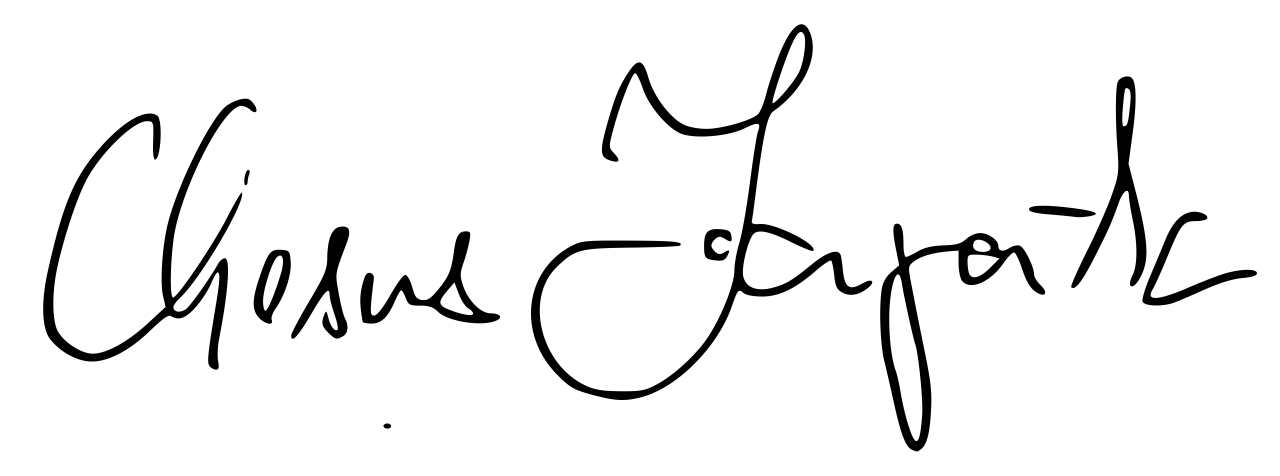
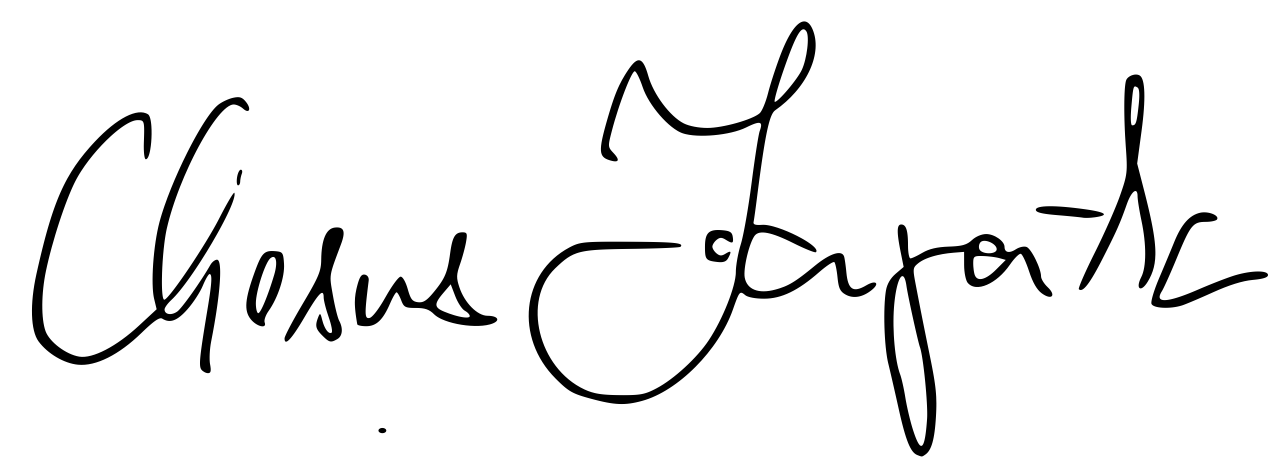
signatures

diff --git a/_includes/signature.html b/_includes/signature.html
@@ -1,4 +1,10 @@
-<div style="margin-top:2em;">
-  <img src="{{ '/assets/img/ChesusZapataSig.png' | relative_url }}" alt="Signature" height="160"><br>
-  <span>Aprobado por el Presidente Chesus Zapata y refrendado por el Canciller Pancho Villa Junior.</span><br>
+<div style="display: flex; justify-content: space-between; align-items: flex-end; margin-top:2em; gap: 2em;">
+  <div style="text-align:left;">
+    <img src="{{ '/assets/img/ChesusZapataSig.png' | relative_url }}" alt="Chesus Zapata" height="120"><br>
+    <span>Aprobado por el Presidente Chesus Zapata </span>
+  </div>
+  <div style="text-align:right;">
+    <img src="{{ '/assets/img/PanchoVillaJrSig.png' | relative_url }}" alt="Pancho Villa Junior" height="120"><br>
+    <span>y refrendado por el Canciller Pancho Villa Junior.</span>
+  </div>
 </div>
